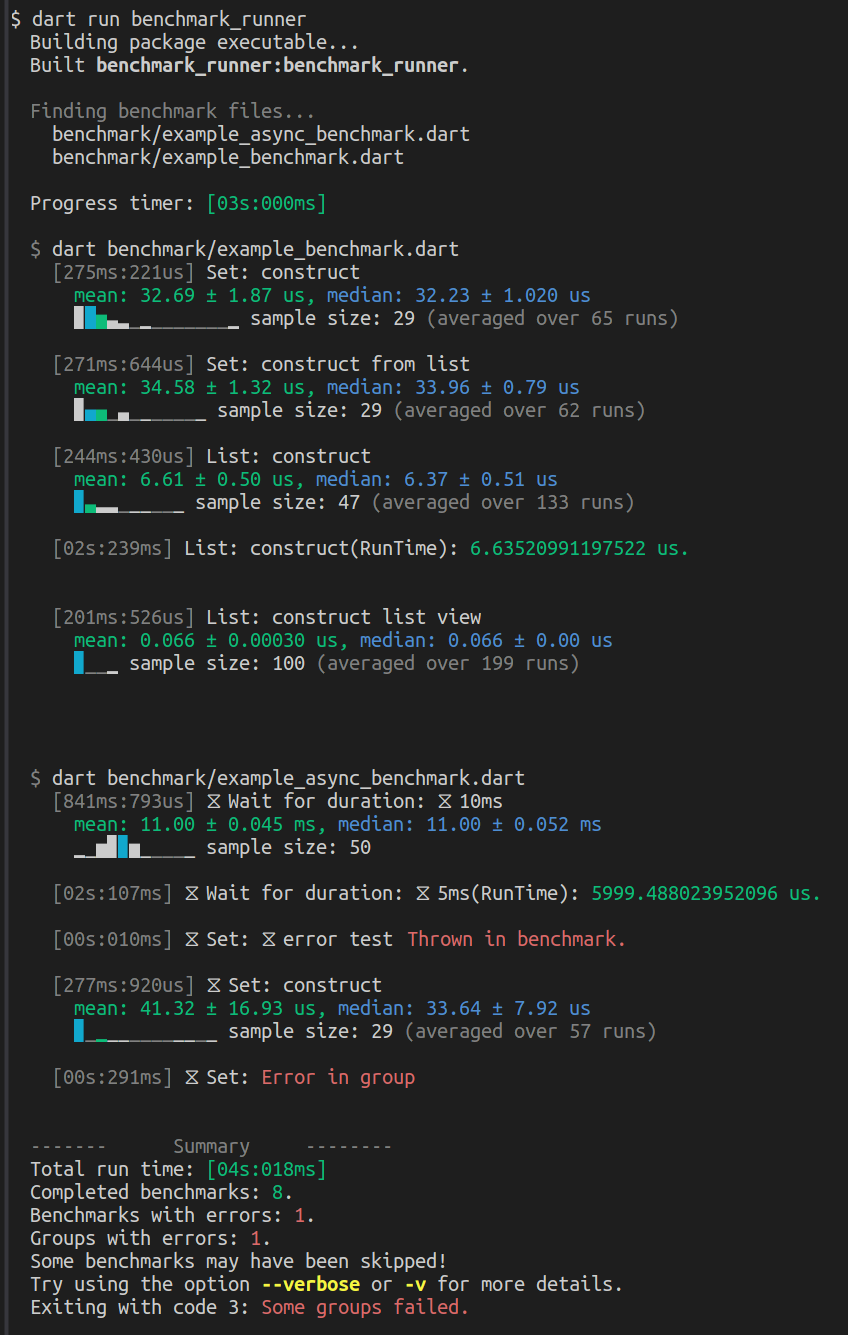
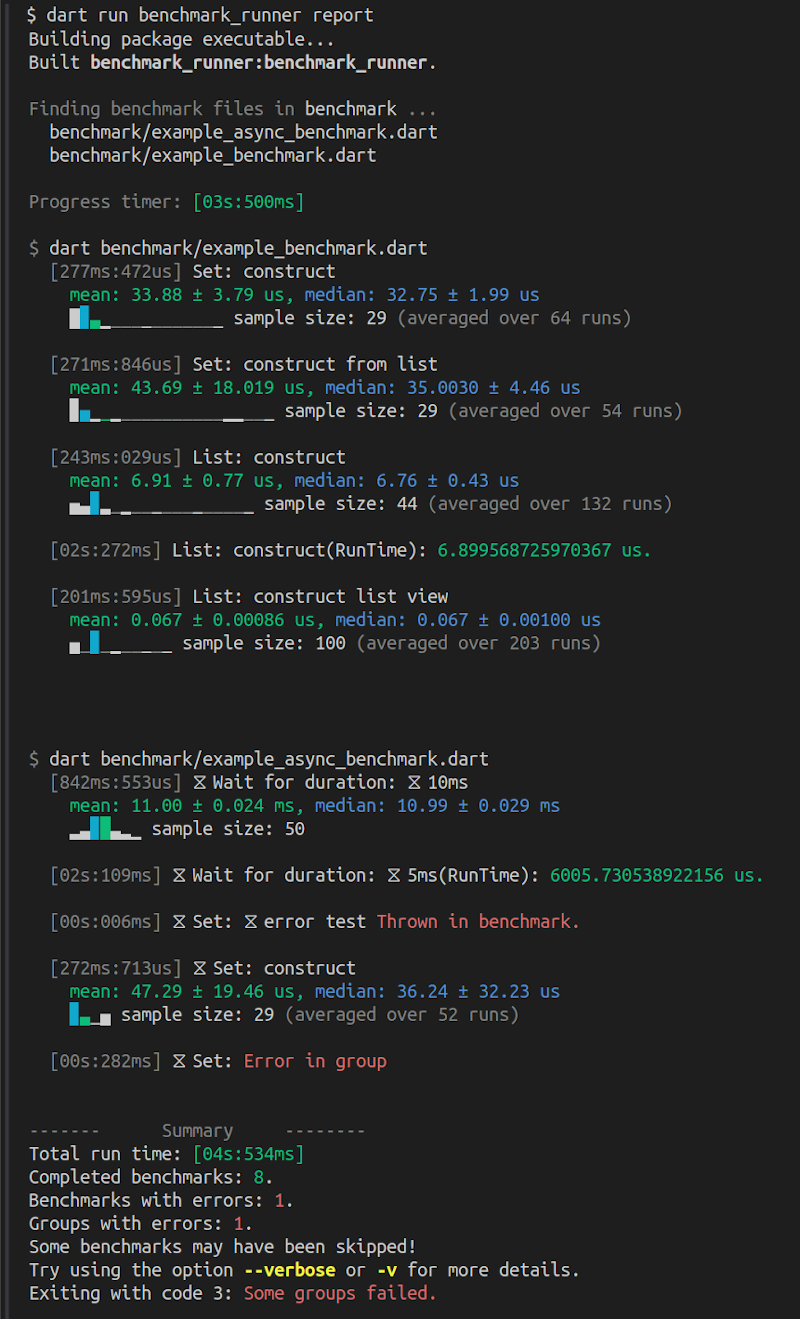
Amended images.

diff --git a/benchmark/example_benchmark.dart b/benchmark/example_benchmark.dart
@@ -1,6 +1,4 @@
 // ignore_for_file: unused_local_variable
-import 'dart:collection';
-
 import 'package:benchmark_runner/benchmark_runner.dart';
 
 void main(List<String> args) {
@@ -24,9 +22,5 @@ void main(List<String> args) {
     benchmark('construct', () {
       var list = <int>[for (var i = 0; i < 1000; ++i) i];
     }, report: reportMean);
-
-    benchmark('construct list view', () {
-      final listView = UnmodifiableListView(originalList);
-    });
   });
 }

diff --git a/README.md b/README.md
@@ -75,7 +75,7 @@ A *single* benchmark file may be run as a Dart executable:
 ```Console
 $ dart benchmark/example_async_benchmark.dart
 ```
-![Console Output Single](https://raw.githubusercontent.com/simphotonics/benchmark_runner/main/images/console_output_single.png)
+![Console Output Single](https://raw.githubusercontent.com/simphotonics/benchmark_runner/main/images/single_report.png)
 
 The console output is shown above. By default, the functions emit benchmark score statistics:
 * The first column shows the micro-benchmark runtime, followed by the group
@@ -99,7 +99,7 @@ If no directory is specified, it defaults to `benchmark`:
 $ dart run benchmark_runner report
 ```
 
-![Runner Report](https://raw.githubusercontent.com/simphotonics/benchmark_runner/main/images/runner_report.gif)
+![Runner Report](https://raw.githubusercontent.com/simphotonics/benchmark_runner/custom-emitter/images/runner_report.png)
 
 A typical console output is shown above. In this example, the benchmark_runner
 detected two benchmark files, ran the micro-benchmarks and produced a report.
